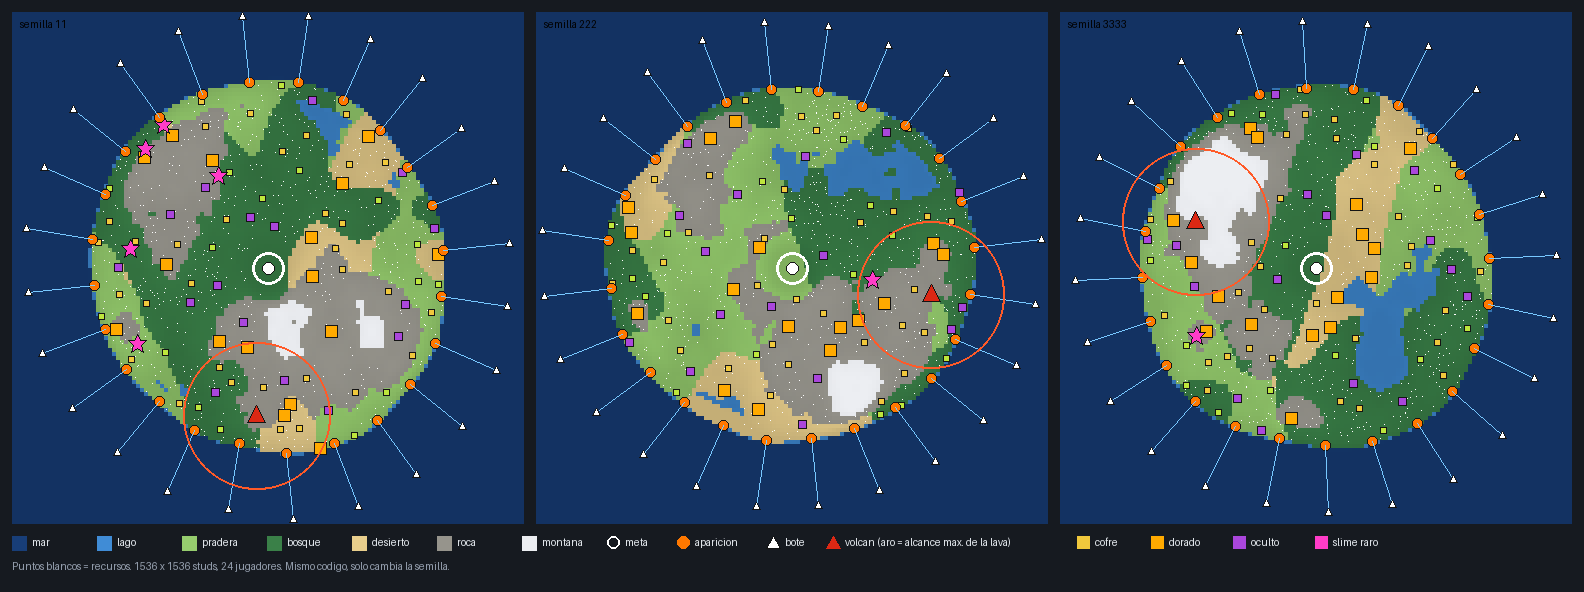
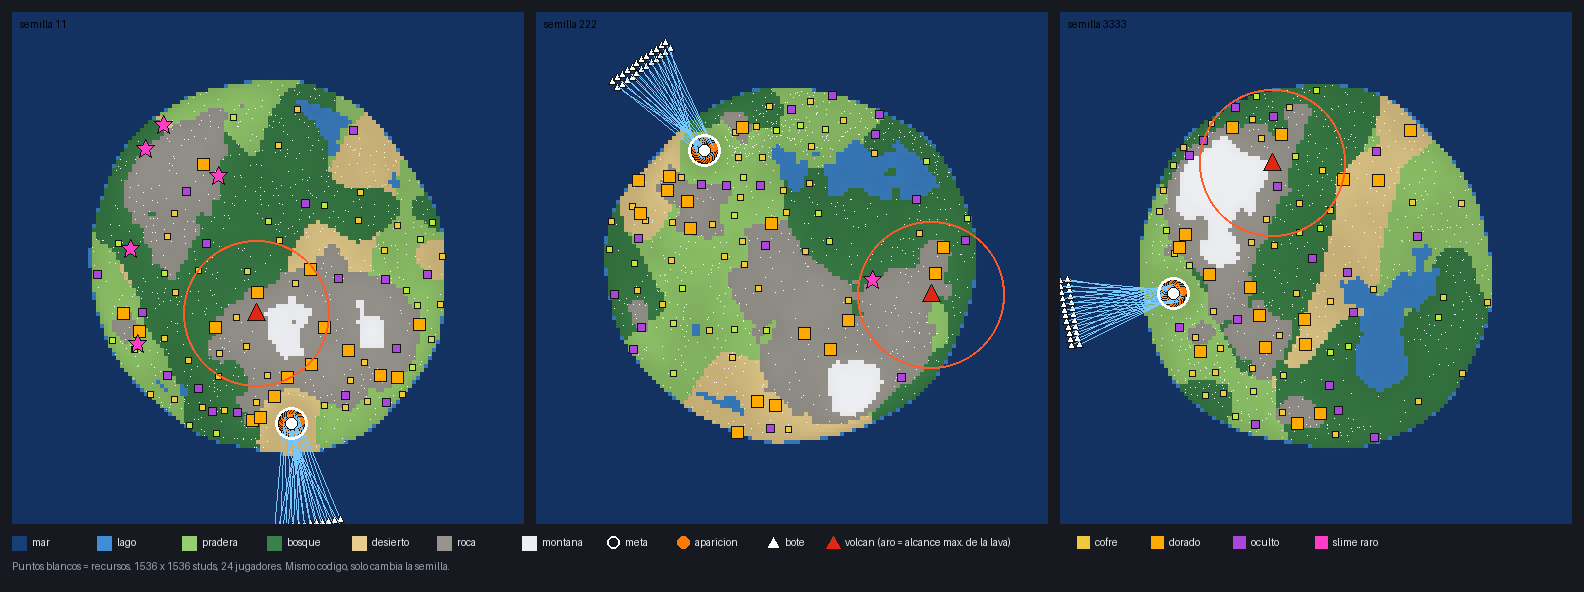
Muelle = meta: un solo muelle, aparicion en la plaza, sectores desde el muelle, pruebas y vista previa
Claude-Session: https://claude.ai/code/session_012nzBSQMX5smfJgK3Jsbfrt

diff --git a/coordinacion/BITACORA.md b/coordinacion/BITACORA.md
@@ -59,3 +59,6 @@ La sesión de Claude que corre en el PC del usuario encontró `C:\Users\maiko\Do
 - `src/Combat.lua` (puñetazo: alcance 7, 2 golpes/s, 100 hp, 20 de daño, empuje; al llegar a 0 llama a `Rules:knockOut`) + `tests/run_combat.lua` (5 pruebas de combate y una partida completa de 12 bots, determinista). Total: 34 + 7 pruebas ok (`python3 slime-rush-juego/tests/run_tests.py`).
 - `server/GameServer.server.lua` y `client/Hud.client.lua`: adaptador PROVISIONAL a Roblox (isla de 512, suelo plano, esferas/cajas de colores, HUD de texto; E recoger, F golpear, G saquear, H depositar). **Solo se comprobó la sintaxis; NO se ha probado en Studio.** `default.project.json` ya los mapea (ServerScriptService y StarterPlayerScripts).
 - Codex: parte de esto en vez de rehacerlo. Tu trabajo: abrirlo con Rojo, corregir lo que falle en Studio, reemplazar el suelo plano por el terreno real (sin Terrain de fábrica), medir FPS, y avisar con captura.
+
+## 2026-10-22 — Claude (nube): MUELLE = META (cambio en World.lua)
+`World.generate` ahora elige un único muelle en la costa y pone la meta (plaza) tierra adentro frente a él. Nuevo: `world.dock = {x,z,angle,out,inward,sea}`; `spawns[i]` = anillo dentro de la plaza (ya NO están en las playas); `spawns[i].boat` = fila de botes mar adentro frente al muelle. Los sectores de justicia ahora son un abanico de 22,5° desde el muelle (`World.sectorOf(world,x,z)`; `World.sector` queda solo por compatibilidad). 41 pruebas ok. Codex: al construir el terreno usa `world.dock` para el muelle de madera y los NPC guardianes de los cuerpos; el servidor de prueba ya aparece a todos en la plaza.

diff --git a/slime-rush-juego/DISENO-v2.md b/slime-rush-juego/DISENO-v2.md
@@ -108,6 +108,10 @@ Todo lo anterior se conserva como idea, pero se construye **por capas**. Una cap
 5. **Aviso final:** cuando queda poco tiempo suenan **altavoces del muelle** y aparece un **contador arriba**.
 6. **Colapso:** quien no llegó **muere/se derrite** porque la isla es consumida por un desastre (volcán, tormenta, tornado…).
 
+### Decisiones tomadas (Maikol)
+- **Muelle = meta: CONFIRMADO.** Un solo muelle en la costa (ángulo por semilla); la plaza de la meta queda tierra adentro; todos aparecen en la plaza; los botes esperan mar adentro frente al muelle. Implementado en `World.lua` (`world.dock`, `world.goal`, `World.sectorOf`: sectores = abanico de 22,5° visto desde el muelle).
+- **Cuerpos reales en el muelle:** no se pueden tocar ni saquear; quedan ahí "supervisados" por NPCs (escenografía).
+
 ### Preguntas abiertas que salen del guion
 - **¿La meta y el muelle son el mismo lugar?** Hoy el generador pone la meta como plaza en el centro y los botes en las playas (24 apariciones). El guion habla de UN muelle de desembarco y de volver ahí. Propuesta: muelle = meta, en la costa, con todos saliendo desde el mismo punto (más justo y simple). Pendiente de confirmar; implica cambiar World.lua.
 - **Los cuerpos reales caídos en el muelle:** ¿se pueden tocar/saquear? (propuesta: no, son solo escenografía y puntuación de "quién llegó").
